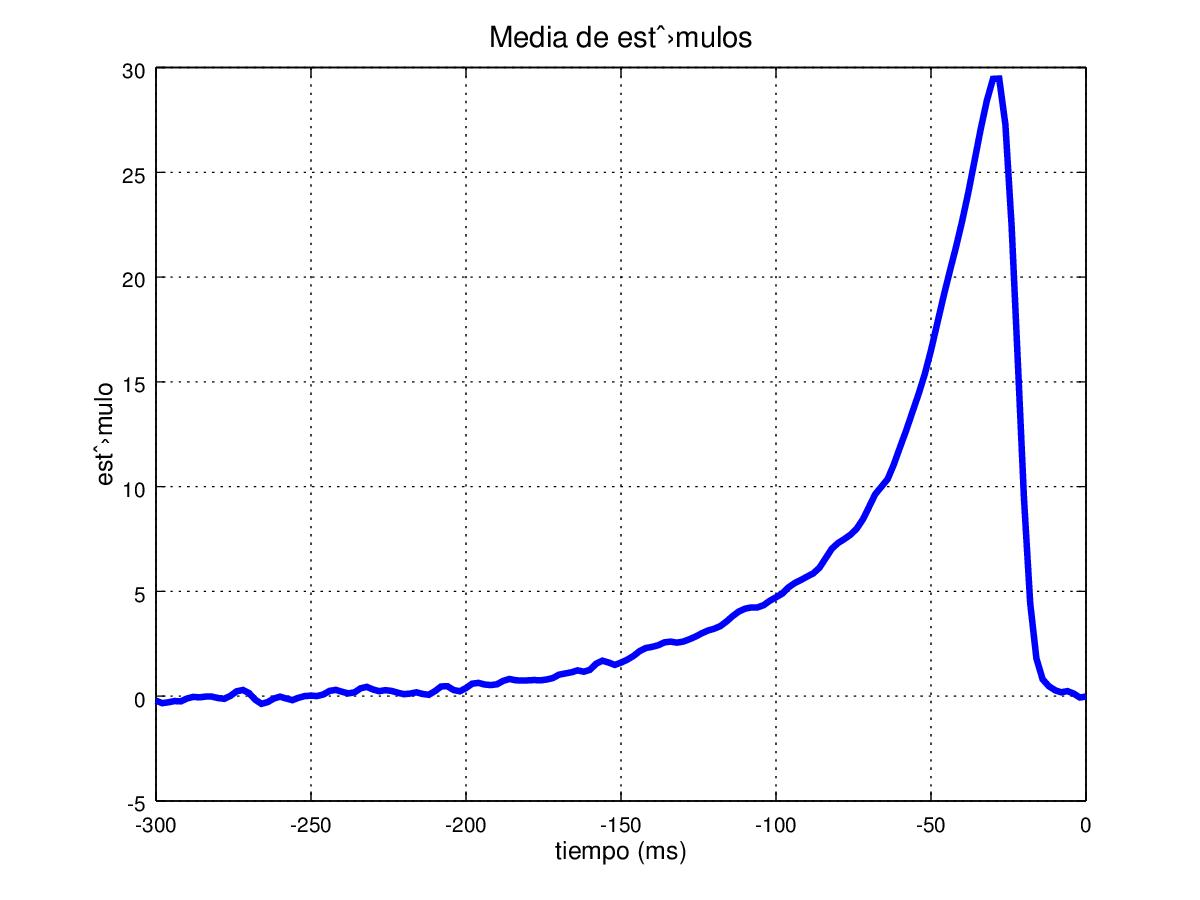
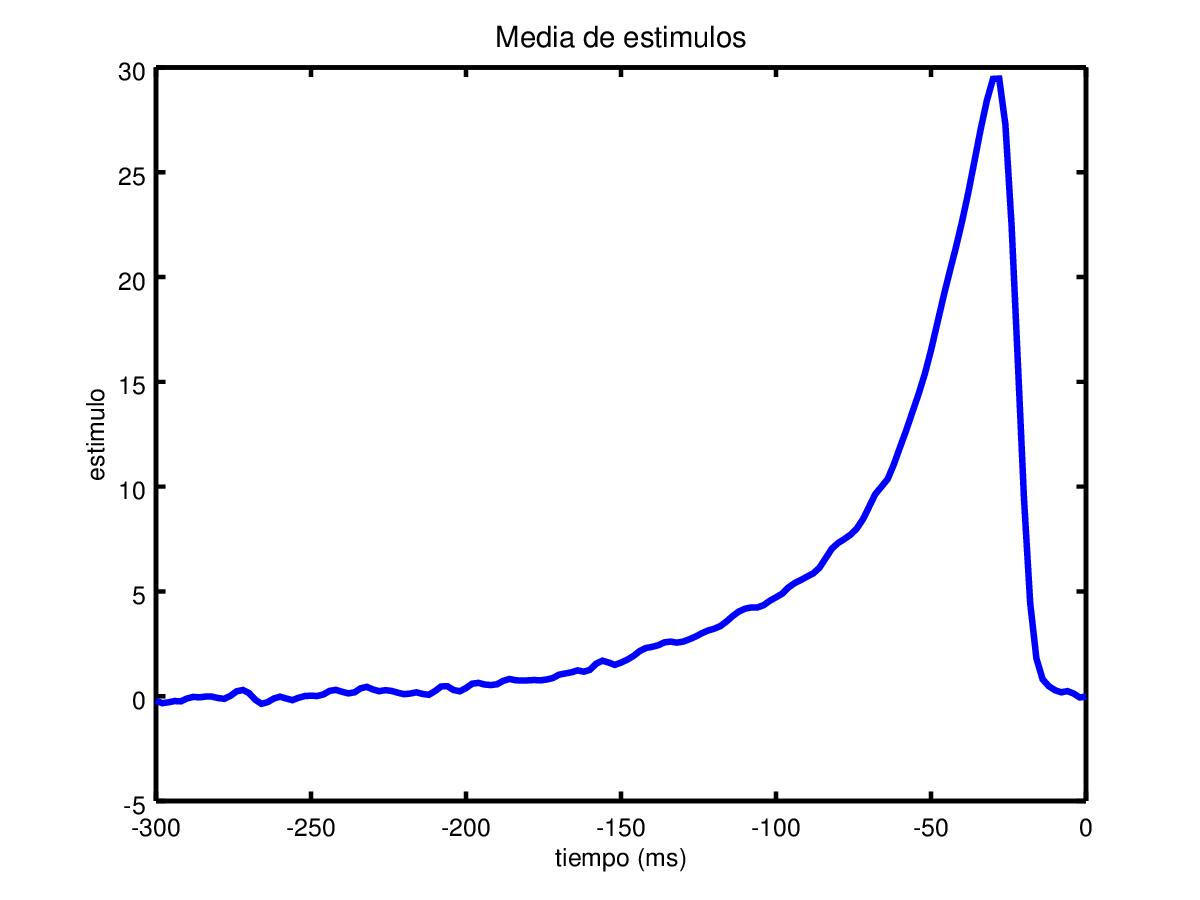
fixes + plot linewidth

Changed region(s): [[0.0617, 0.0311, 0.925, 0.9644]]

diff --git a/ej3/ej3.m b/ej3/ej3.m
@@ -6,7 +6,9 @@ function ej3()
 	times = -1 * [0 : sample_frec : dt];
 	times = fliplr(times);
 	plot(times,mean_stims,'linewidth',3);
-    title('Media de estímulos','fontsize',14);
+    title('Media de estimulos','fontsize',14);
     xlabel('tiempo (ms)','fontsize',12);
-    ylabel('estímulo','fontsize',12);
+    ylabel('estimulo','fontsize',12);
+    set(gca, 'linewidth', 2, 'fontsize', 12);
+
 end

diff --git a/ej2/white_noise_analizer.m b/ej2/white_noise_analizer.m
@@ -12,6 +12,8 @@ function white_noise_analizer(wn)
 	l = (length(autcor) - 1) / 2;
 	x = [-l:l];
 	stem(x,autcor,'linewidth',2,'markersize',7,'filled');
-	title('Autocorrelación de un estímulo de ruido blanco','fontsize',14);
+	title('Autocorrelacion de un estimulo de ruido blanco','fontsize',14);
 	xlabel('lag','fontsize',12);
+	set(gca, 'linewidth', 2, 'fontsize', 12)
+	
 end

diff --git a/ej4/ej4.m b/ej4/ej4.m
@@ -6,12 +6,12 @@ function r_est = ej4()
 	D = (r/s) * means;
 	r_est = zeros(length(stim) - 150,1);
 	r0 = r;
+	D = underZero(D);
+	stim = underZero(stim);
 	for t = 151 : length(stim)
 		stims = fliplr(stim(t - 150 : t ));
-		r_est(t) = r0 + D * stims;
+		r_est(t - 150) = r0 + D * stims;
 	end
 
-	%graphics_toolkit gnuplot
-	%f =  figure('visible','off');
 	plot(r_est);
 end

diff --git a/ej5/ej5.m b/ej5/ej5.m
@@ -37,12 +37,4 @@ function [pct]  = ej5(experiments, D, neurons)
 
 end
 
-function X = underZero(X)
-	for j = 1 : length(X(1,:))
-		for i = 1 : length(X(:,1))
-			if(!X(i,j))
-				X(i,j)=0;
-			end
-		end
-	end
-end
+

diff --git a/ej4/generate_spikes.m b/ej4/generate_spikes.m
@@ -1,0 +1,7 @@
+function spikes = generate_spikes(r_t, dt)
+	spikes = zeros(length(r_t),1);
+	for i = 1:length(r_t)
+		count = poissrnd(r_t(i)  * dt);
+		spikes(i) = count;
+	end
+end

diff --git a/ej4/underZero.m b/ej4/underZero.m
@@ -1,0 +1,9 @@
+function X = underZero(X)
+	for j = 1 : length(X(1,:))
+		for i = 1 : length(X(:,1))
+			if(X(i,j) < 0)
+				X(i,j)=0;
+			end
+		end
+	end
+end

diff --git a/ej5/underZero.m b/ej5/underZero.m
@@ -1,0 +1,9 @@
+function X = underZero(X)
+	for j = 1 : length(X(1,:))
+		for i = 1 : length(X(:,1))
+			if(X(i,j) < 0)
+				X(i,j)=0;
+			end
+		end
+	end
+end
